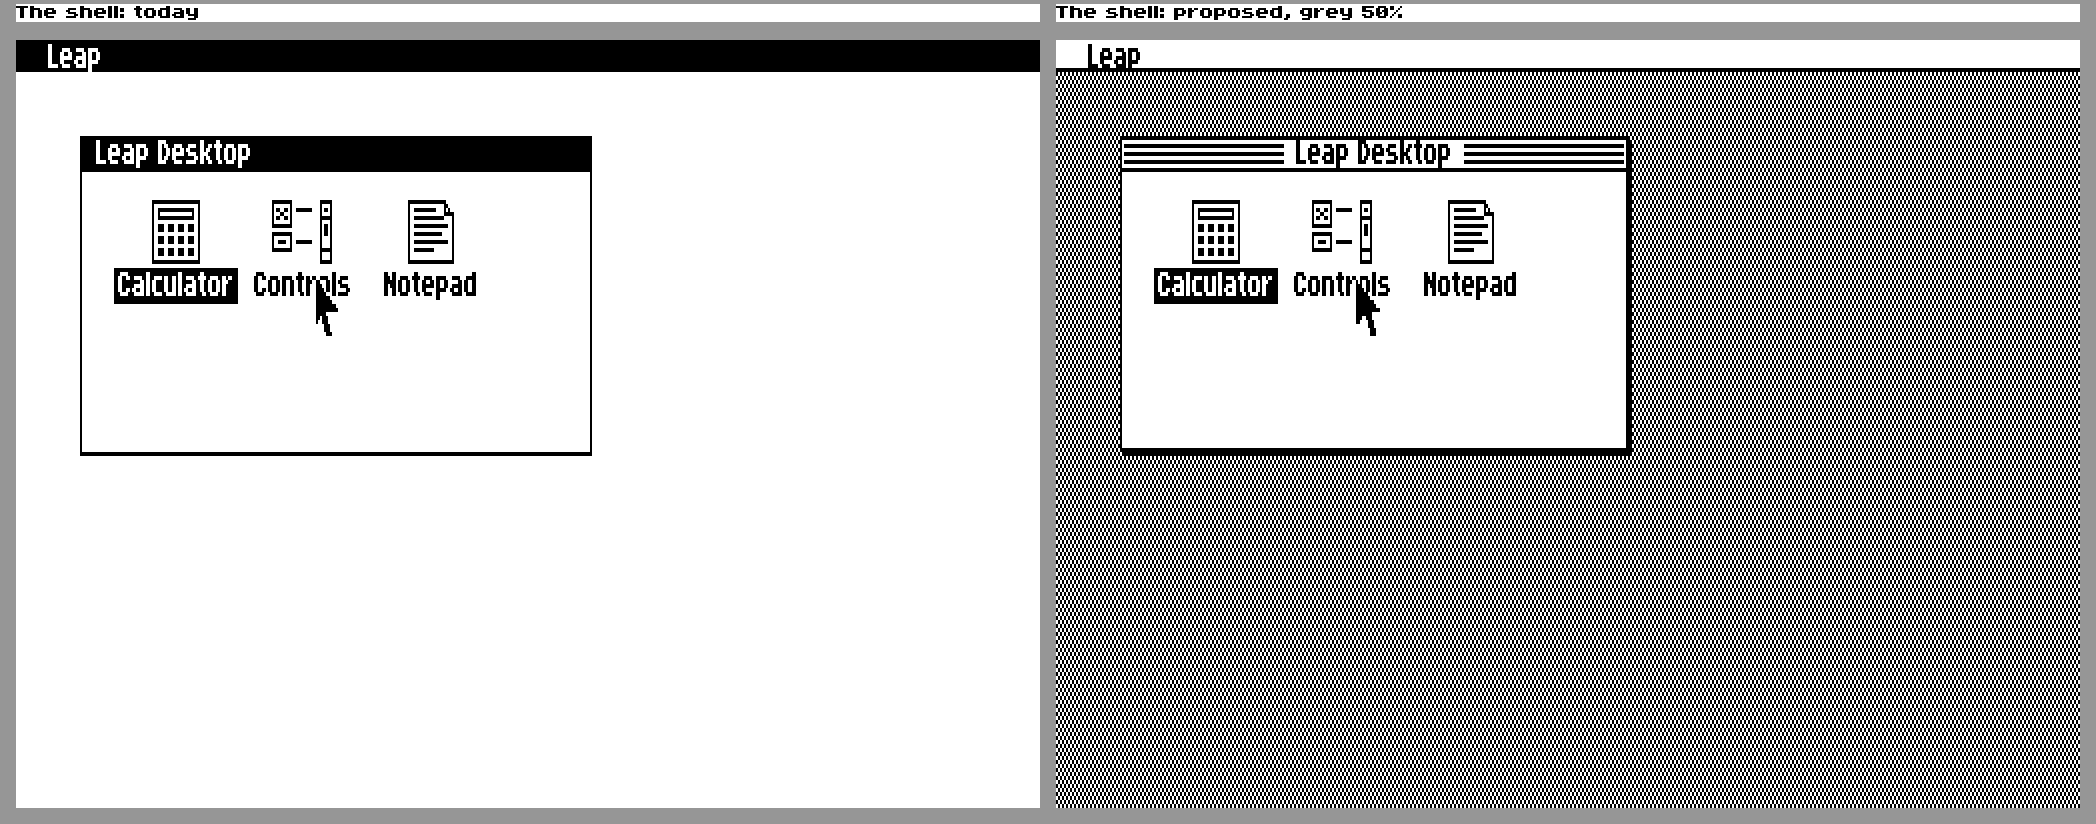
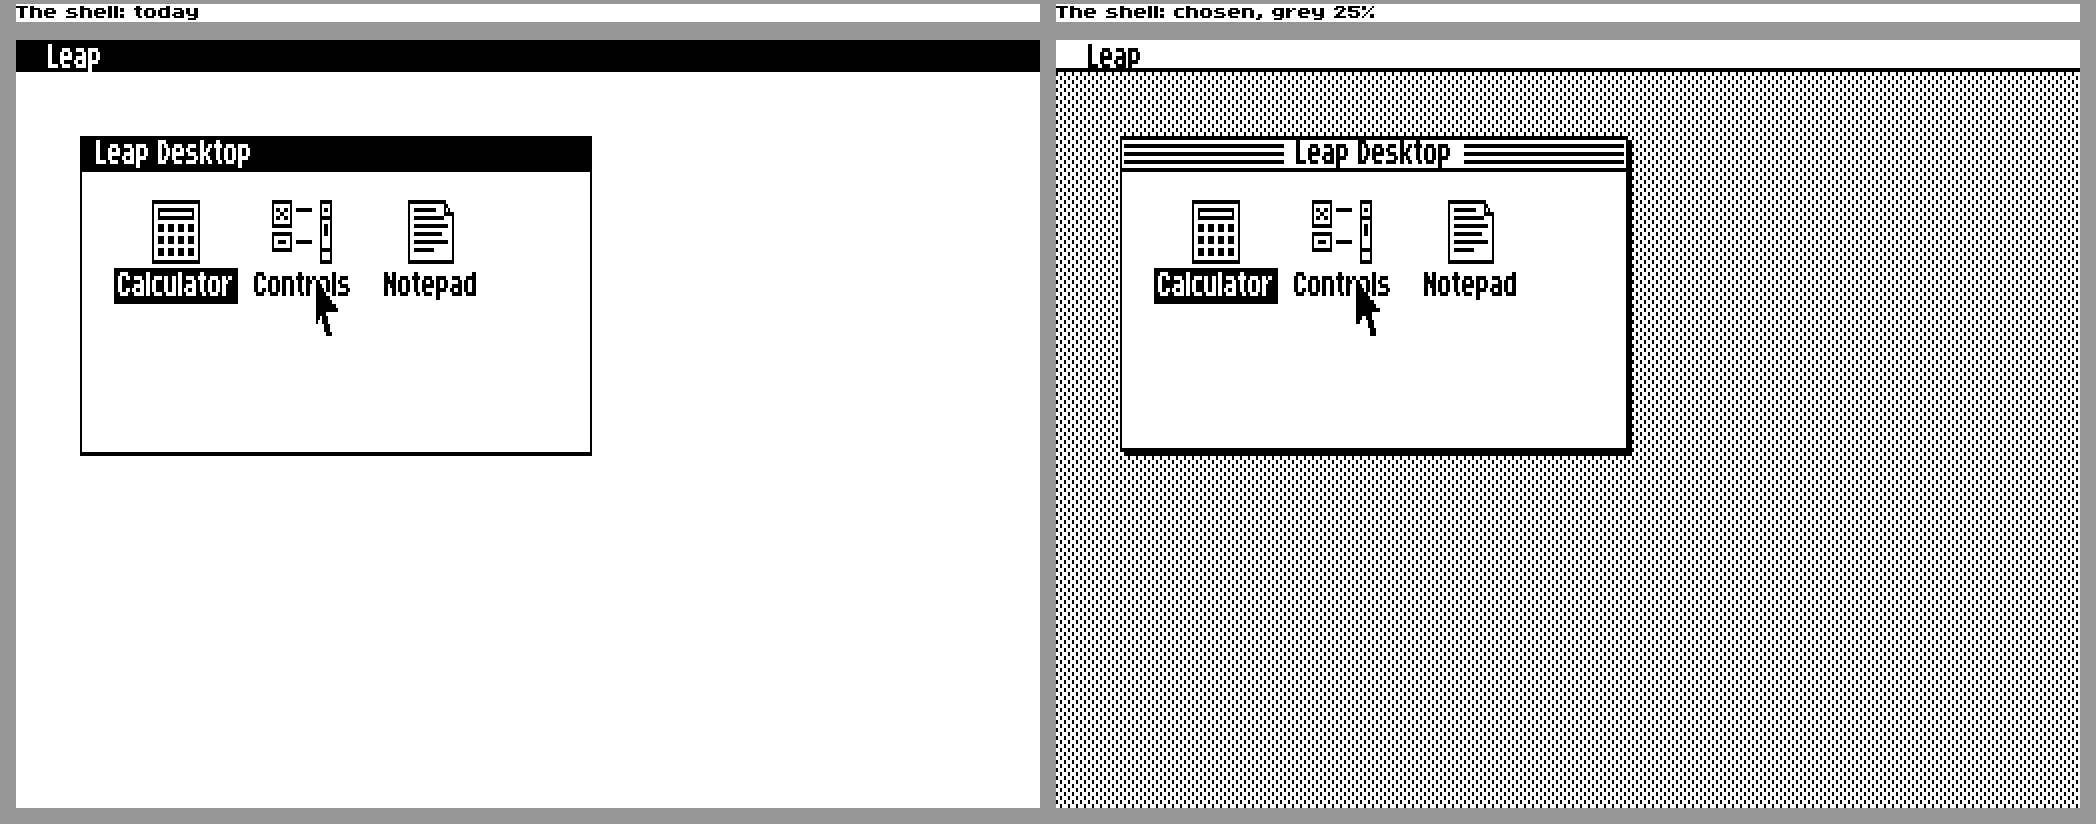
Mock-ups redrawn: the chosen look (25% grey, 2-column arrow tip) beside today's, checked against the desk5 test models (the last commit said redrawn; the generator had refused)

Changed region(s): [[0.4962, 0.091, 0.9924, 1.0], [0.5582, 0.0, 0.6823, 0.0303]]

diff --git a/docs/LOOK.md b/docs/LOOK.md
@@ -200,7 +200,8 @@ arrow). `desk5.asm` defines `DESK_STR` and patches the tile.
 - **`window_draw`** clears the whole rectangle, then draws its lines from a table of (dx, dy, dw, dh): 6 lines, 9 when active.
   A negative entry counts from the right or the bottom. Then it draws the title.
 - **The arrow's tip is 2 columns wide** (`##o` in row 0). OBJECTS_EVENTS 14.6 asks for ink at columns 0-1 of row 0. The
-  section 3.6 block and `tests/look-model.mjs` show it; mock-ups 1-11 were redrawn.
+  section 3.6 block and `tests/look-model.mjs` show it. Mock-ups 1-11 were redrawn with the chosen 25% grey. The generator now
+  checks that side against the `desk5` test models.
 - **The close box** amends SHELL 10.1 on `desk5`. Its hit rectangle is (x + 8, y + 1, 15, 7).
 
 **Bytes:** pool +157 (chunk 5 +119, chunk 1 +38): the kernel +142, the menus +38, the close box -23. That is within the 250 of
